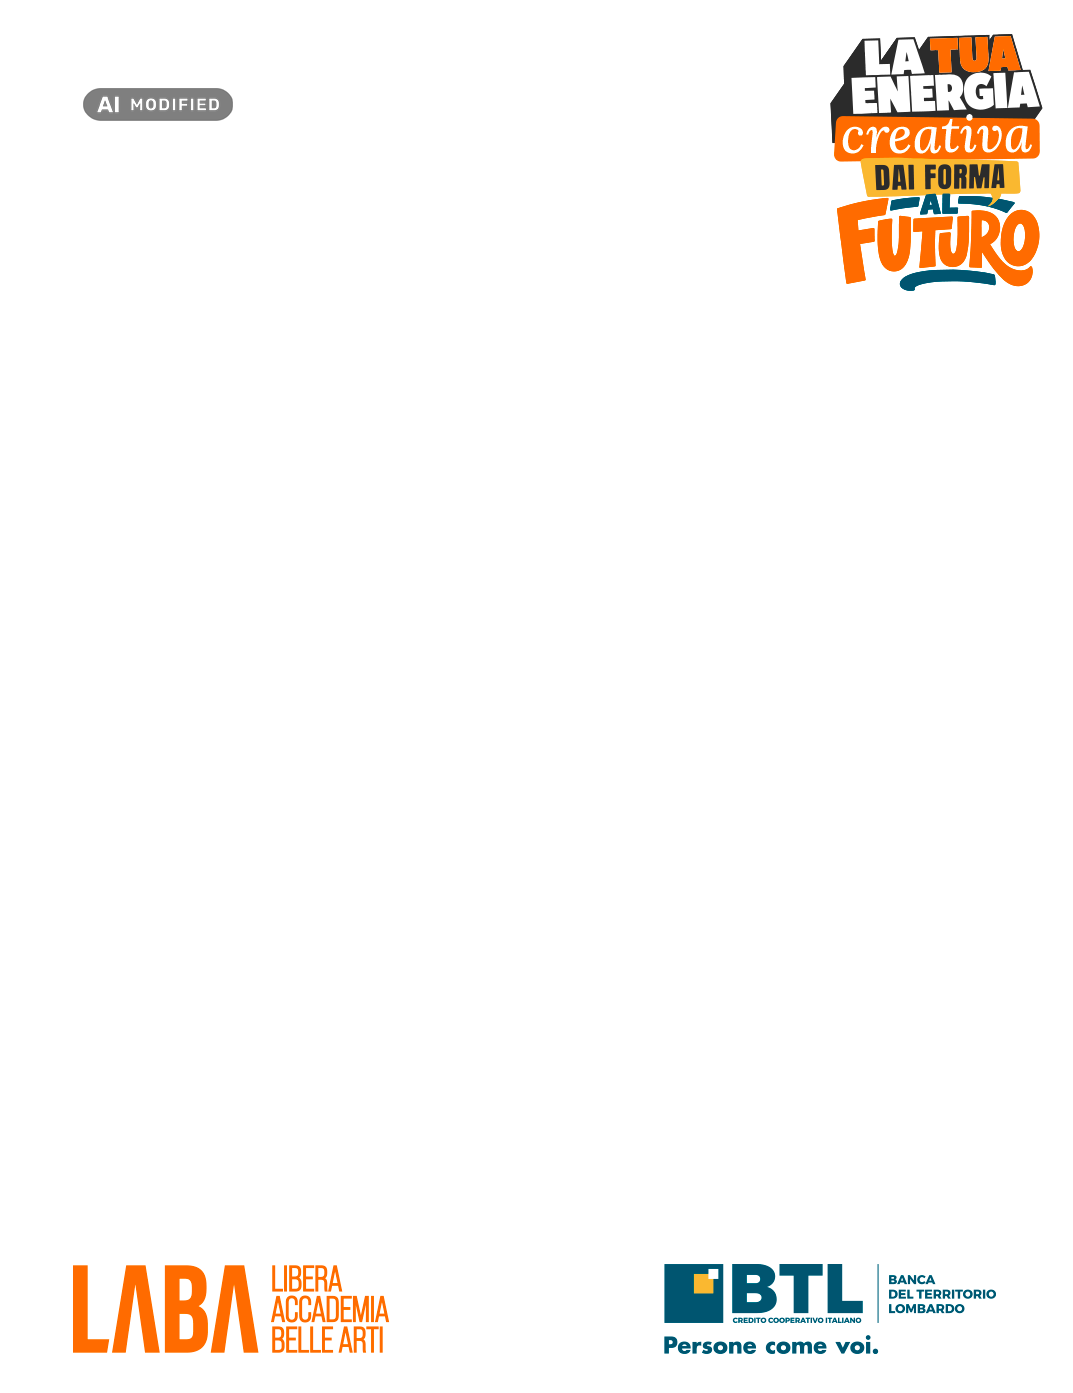
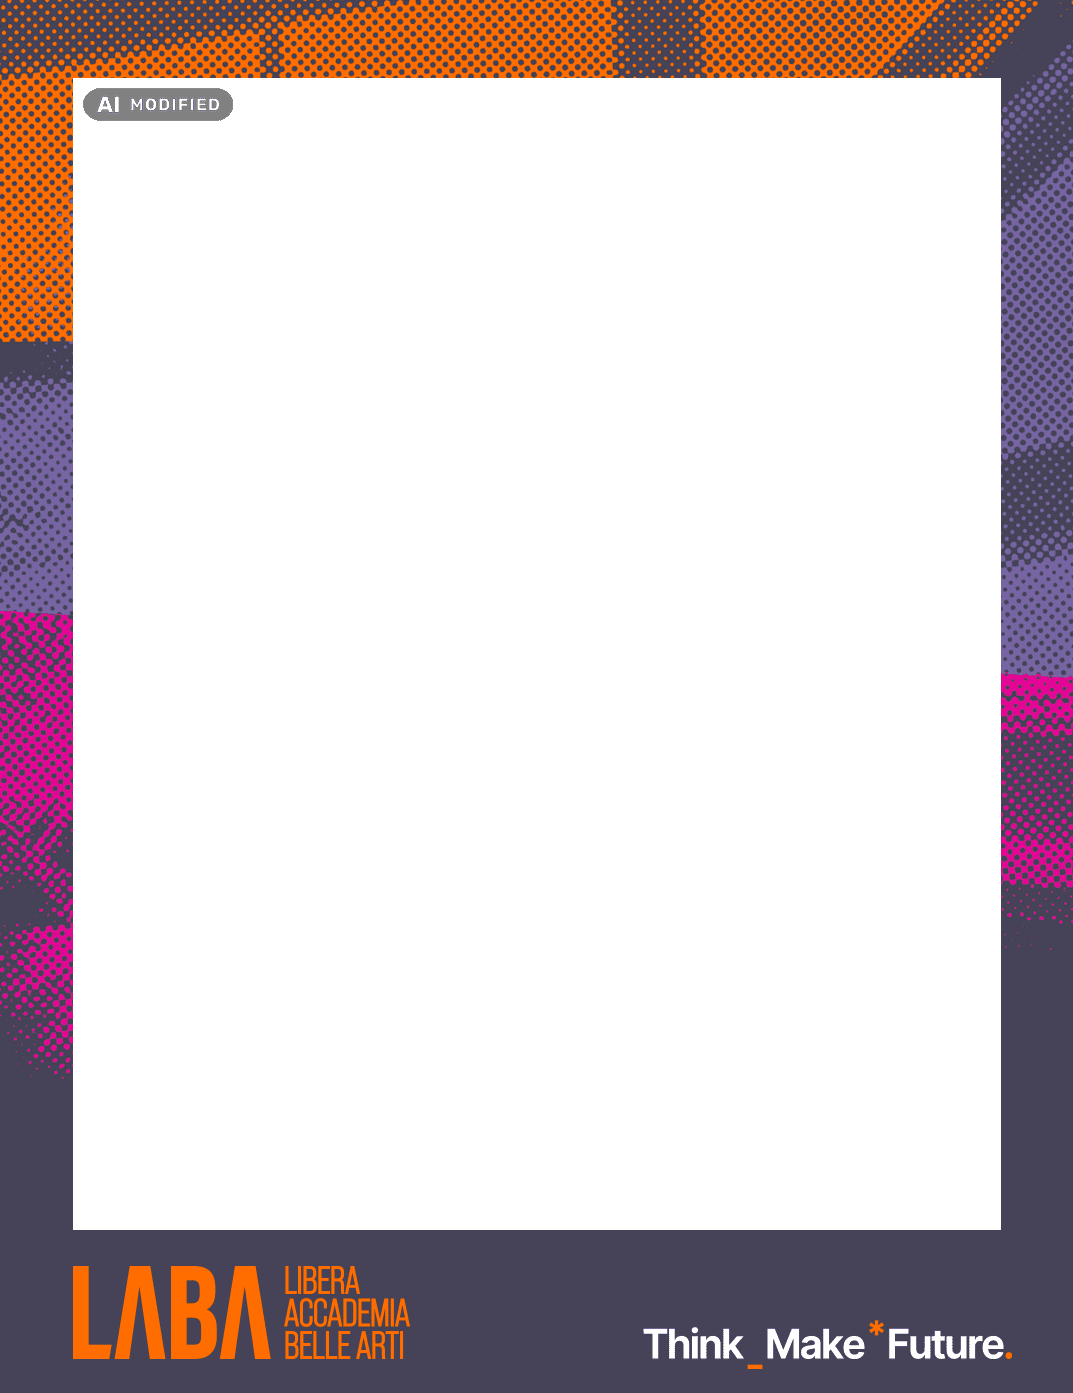
feat: update styling and layout across components; add background image to App.vue, modify color variables in style.css, and enhance header and splash screen visuals for improved user experience

Changed region(s): [[0.0, 0.0, 1.0, 1.0]]

diff --git a/src/components/Admin.vue b/src/components/Admin.vue
@@ -342,7 +342,7 @@ onMounted(loadItems);
         <select
           v-if="!isLoading && editions.length"
           v-model="selectedEdition"
-          class="w-full sm:w-auto sm:min-w-[200px] rounded-lg border border-black/10 bg-white px-3 py-2  font-medium text-[var(--text-primary)] shadow-sm focus:outline-none focus:ring-2 focus:ring-[#FF7230]"
+          class="w-full sm:w-auto sm:min-w-[200px] rounded-lg border border-black/10 bg-white px-3 py-2  font-medium text-[#201c28] shadow-sm focus:outline-none focus:ring-2 focus:ring-[#FF7230]"
           aria-label="Filtra per edition"
         >
           <option
@@ -356,7 +356,7 @@ onMounted(loadItems);
         <select
           v-if="!isLoading && statuses.length"
           v-model="selectedStatus"
-          class="w-full sm:w-auto sm:min-w-[200px] rounded-lg border border-black/10 bg-white px-3 py-2  font-medium text-[var(--text-primary)] shadow-sm focus:outline-none focus:ring-2 focus:ring-[#FF7230]"
+          class="w-full sm:w-auto sm:min-w-[200px] rounded-lg border border-black/10 bg-white px-3 py-2  font-medium text-[#201c28] shadow-sm focus:outline-none focus:ring-2 focus:ring-[#FF7230]"
           aria-label="Filtra per status"
         >
           <option
@@ -462,7 +462,7 @@ onMounted(loadItems);
                 <select
                   :id="`status-${item.id}`"
                   :value="item.status ?? ''"
-                  class="w-full rounded-lg border border-black/10 bg-white px-2.5 py-1.5 text-sm font-medium text-[var(--text-primary)] shadow-sm focus:outline-none focus:ring-2 focus:ring-[#FF7230]"
+                  class="w-full rounded-lg border border-black/10 bg-white px-2.5 py-1.5 text-sm font-medium text-[#201c28] shadow-sm focus:outline-none focus:ring-2 focus:ring-[#FF7230]"
                   :class="statusClass(item.status)"
                   @change="onStatusSelect(item, $event)"
                 >

diff --git a/src/components/SplashScreen.vue b/src/components/SplashScreen.vue
@@ -35,12 +35,22 @@ const rotations = [-17, 6, 12]
     <div
       class="splash-content mx-auto flex w-full max-w-[1400px] flex-col items-center gap-10 px-4 py-8 md:px-10 lg:flex-row lg:items-center lg:justify-between lg:gap-12 xl:gap-20"
     >
-      <div class="splash-side flex w-full max-w-md flex-col items-center gap-8 lg:max-w-[398px] lg:shrink-0 lg:items-start">
+      <div class="splash-side flex w-full max-w-md flex-col items-center gap-8 lg:max-w-[440px] lg:shrink-0 lg:items-start">
         <img
-          src="../assets/btl/logo-iniziativa.png"
-          alt="La tua energia creativa dai forma al futuro"
-          class="w-full max-w-[min(85vw,398px)] h-auto"
+          src="../assets/logo-laba.svg"
+          alt="LABA - Libera Accademia di Belle Arti"
+          class="w-[clamp(240px,26vw,360px)] h-auto"
         />
+        <div
+          class="flex flex-col items-center gap-1.5 text-center text-3xl font-extrabold leading-tight tracking-tight sm:text-4xl lg:items-start lg:text-left lg:text-5xl"
+        >
+          <span class="inline-block rounded-lg bg-[#201c28] px-3 py-1 text-white">
+            La tua <span class="text-[#FF7230]">passione</span>
+          </span>
+          <span class="inline-block rounded-lg bg-[#201c28] px-3 py-1 text-white">
+            merita una <span class="text-[#FF7230]">Laurea</span>
+          </span>
+        </div>
         <div class="flex flex-wrap items-center justify-center gap-5 lg:justify-start">
           <router-link
             v-if="showCreateButton"

diff --git a/src/App.vue b/src/App.vue
@@ -14,6 +14,7 @@ import Debug from './components/Debug.vue'
 import Dialog from './components/Dialog.vue'
 import MaintenanceNotice from './components/MaintenanceNotice.vue'
 import Analytics from './components/Analytics.vue'
+import backgroundImage from './assets/btl/background.png'
 import { posterServerPath } from './images.js'
 import { editionCode, loadEdition } from './editionConfig.js'
 import { itemStoragePath, ITEM_IMAGE_FILES, isSuccessfulGeneration } from './itemStorage.js'
@@ -556,7 +557,16 @@ provide('getStorageUrl', getStorageUrl);
 </script>
 
 <template>
-  <main class="app-shell relative flex min-h-screen flex-col bg-[var(--page-bg)] print:min-h-0 print:bg-white">
+  <main
+    class="app-shell relative flex min-h-screen flex-col bg-[var(--page-bg)] print:min-h-0 print:bg-white"
+    :style="{
+      backgroundImage: `url(${backgroundImage})`,
+      backgroundSize: 'cover',
+      backgroundPosition: 'center',
+      backgroundRepeat: 'no-repeat',
+      backgroundAttachment: 'fixed',
+    }"
+  >
     <Analytics />
     <MaintenanceNotice v-if="maintenanceActive && isAdmin" />
     <Loading v-if="global.isLoading != null && $route.path !== '/admin'" />
@@ -567,7 +577,7 @@ provide('getStorageUrl', getStorageUrl);
       <Auth />
     </div>
     <div class="flex flex-1 flex-col">
-      <Header />
+      <Header v-if="route.name !== 'home'" />
       <router-view class="flex flex-1 flex-col" />
       <Footer />
     </div>

diff --git a/src/components/Detail.vue b/src/components/Detail.vue
@@ -300,13 +300,13 @@ onMounted(async () => {
       >
         <p
           v-if="canToggle"
-          class="mb-3.5 text-center font-medium text-[#201c28]/65 print:hidden"
+          class="mb-3.5 text-center font-medium text-[var(--text-primary)]/65 print:hidden"
         >
          
           Ricordati di <strong>confermare la pubblicazione</strong> dell'immagine generata utilizzando i pulsanti in basso.
         </p>
 
-        <div class="text-center  font-medium text-[#201c28]/65 print:hidden">
+        <div class="text-center  font-medium text-[var(--text-primary)]/65 print:hidden">
           
         </div>
 

diff --git a/src/components/Header.vue b/src/components/Header.vue
@@ -14,15 +14,8 @@ defineProps({
       <router-link to="/" class="shrink-0 cursor-pointer">
         <img
           src="../assets/logo-laba.svg"
-          alt="LABA Firenze"
+          alt="LABA - Libera Accademia di Belle Arti"
           class="h-10 sm:h-12 md:h-14 lg:h-16 w-auto"
-        />
-      </router-link>
-      <router-link to="/" class="shrink-0 cursor-pointer">
-        <img
-          src="../assets/btl/logo-btl.png"
-          alt="BTL Banca del Territorio Lombardo"
-          class="h-10 sm:h-12 md:h-14 w-auto"
         />
       </router-link>
     </div>

diff --git a/src/components/Cam.vue b/src/components/Cam.vue
@@ -370,7 +370,7 @@ async function shot() {
 
       <button
         type="button"
-        class=" text-neutral-600 underline underline-offset-2 hover:text-neutral-900 cursor-pointer"
+        class=" text-neutral-300 underline underline-offset-2 hover:text-white cursor-pointer"
         @click="openConsents"
       >
         Informativa privacy

diff --git a/src/style.css b/src/style.css
@@ -19,8 +19,8 @@
     :root {
         --btn-primary-color: #FF7230;
         --btn-primary-color-hover: #ff7230/80;
-        --page-bg: #f1f1f1;
-        --text-primary: #201c28;
+        --page-bg: #464255;
+        --text-primary: #ffffff;
         --btn-secondary-bg: #cfcfcf;
         --btn-secondary-text: #201c28;
     }
